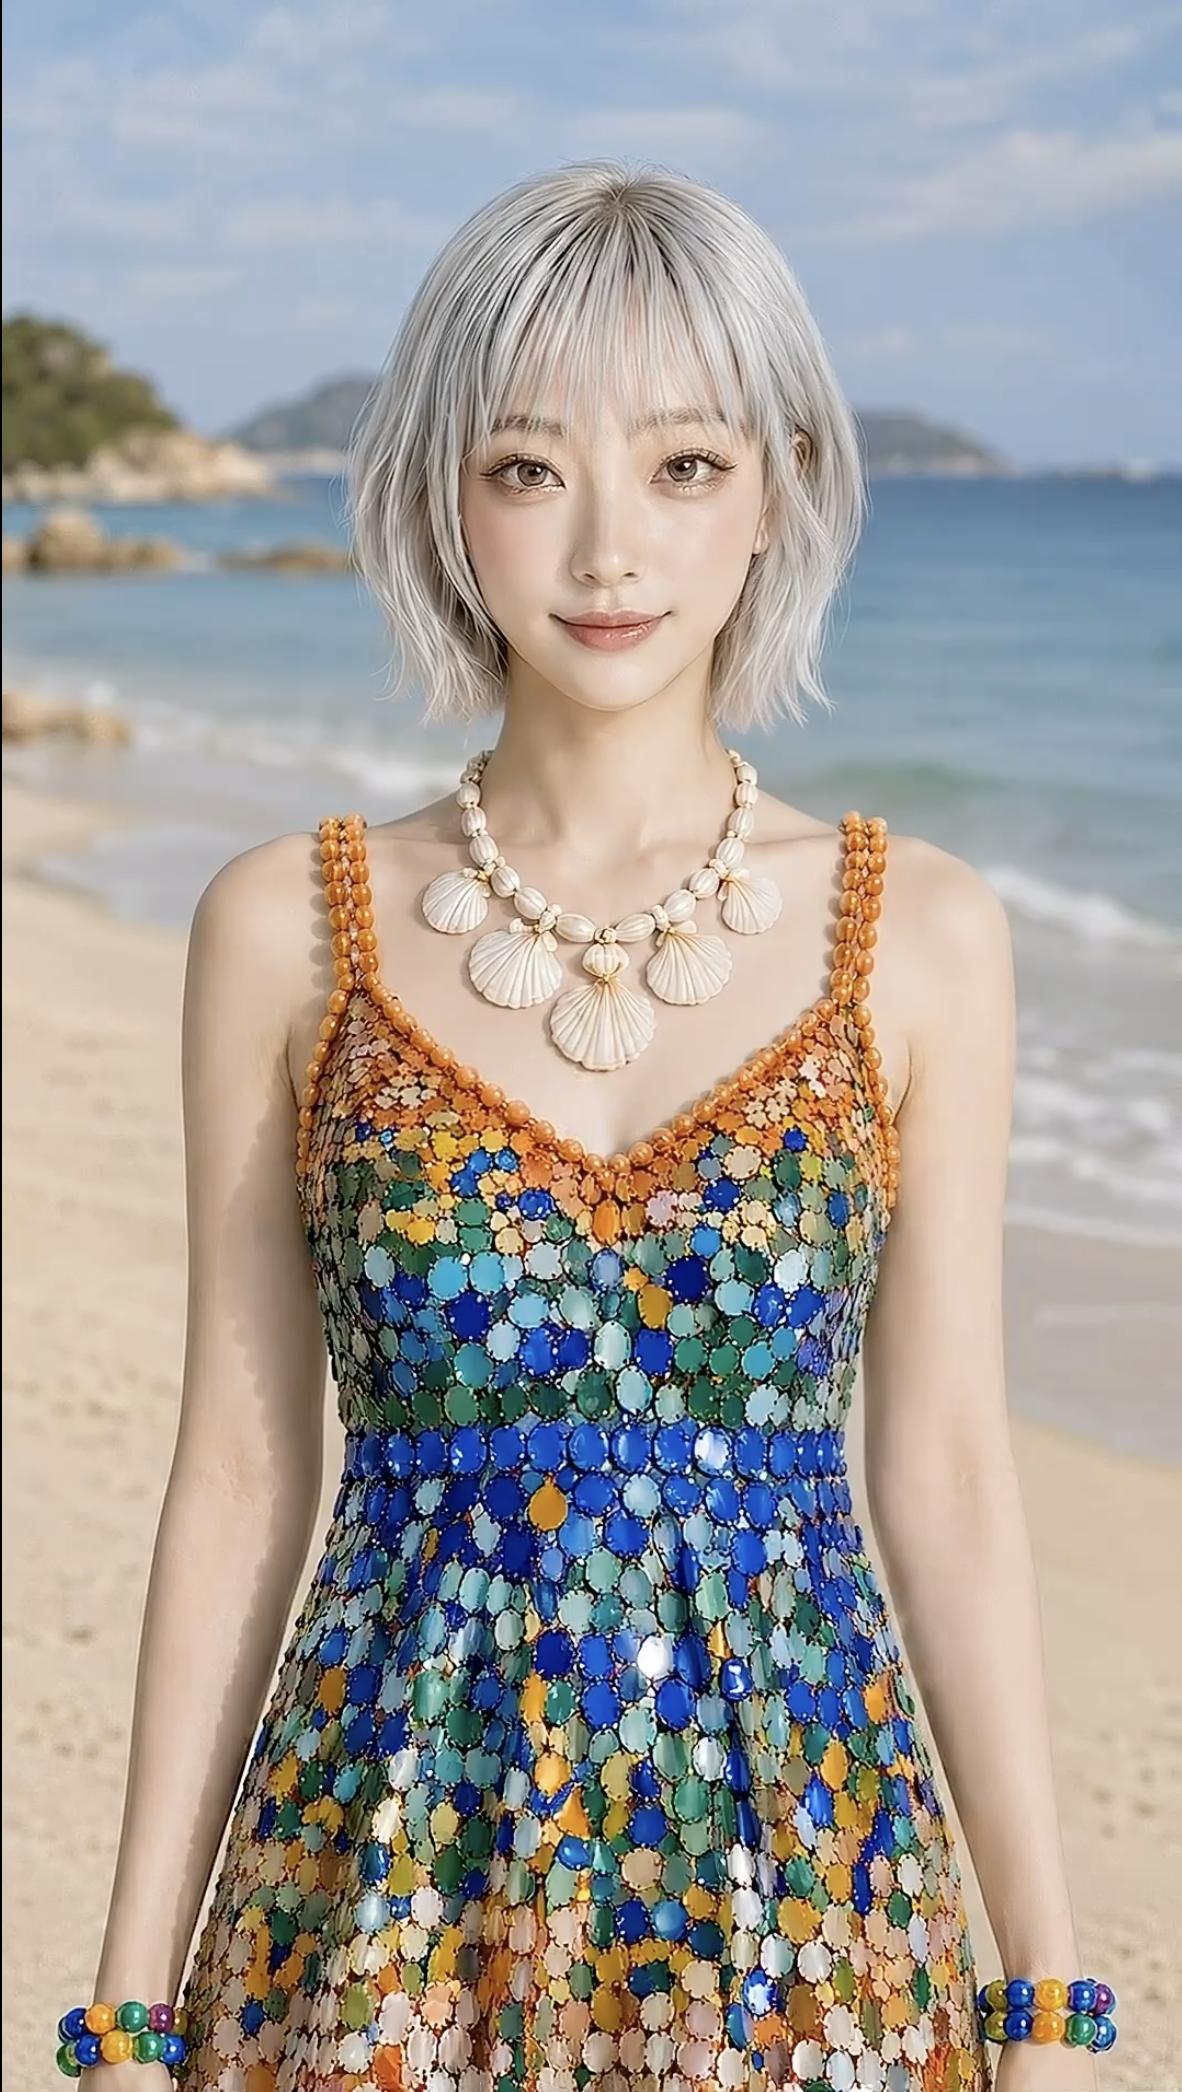
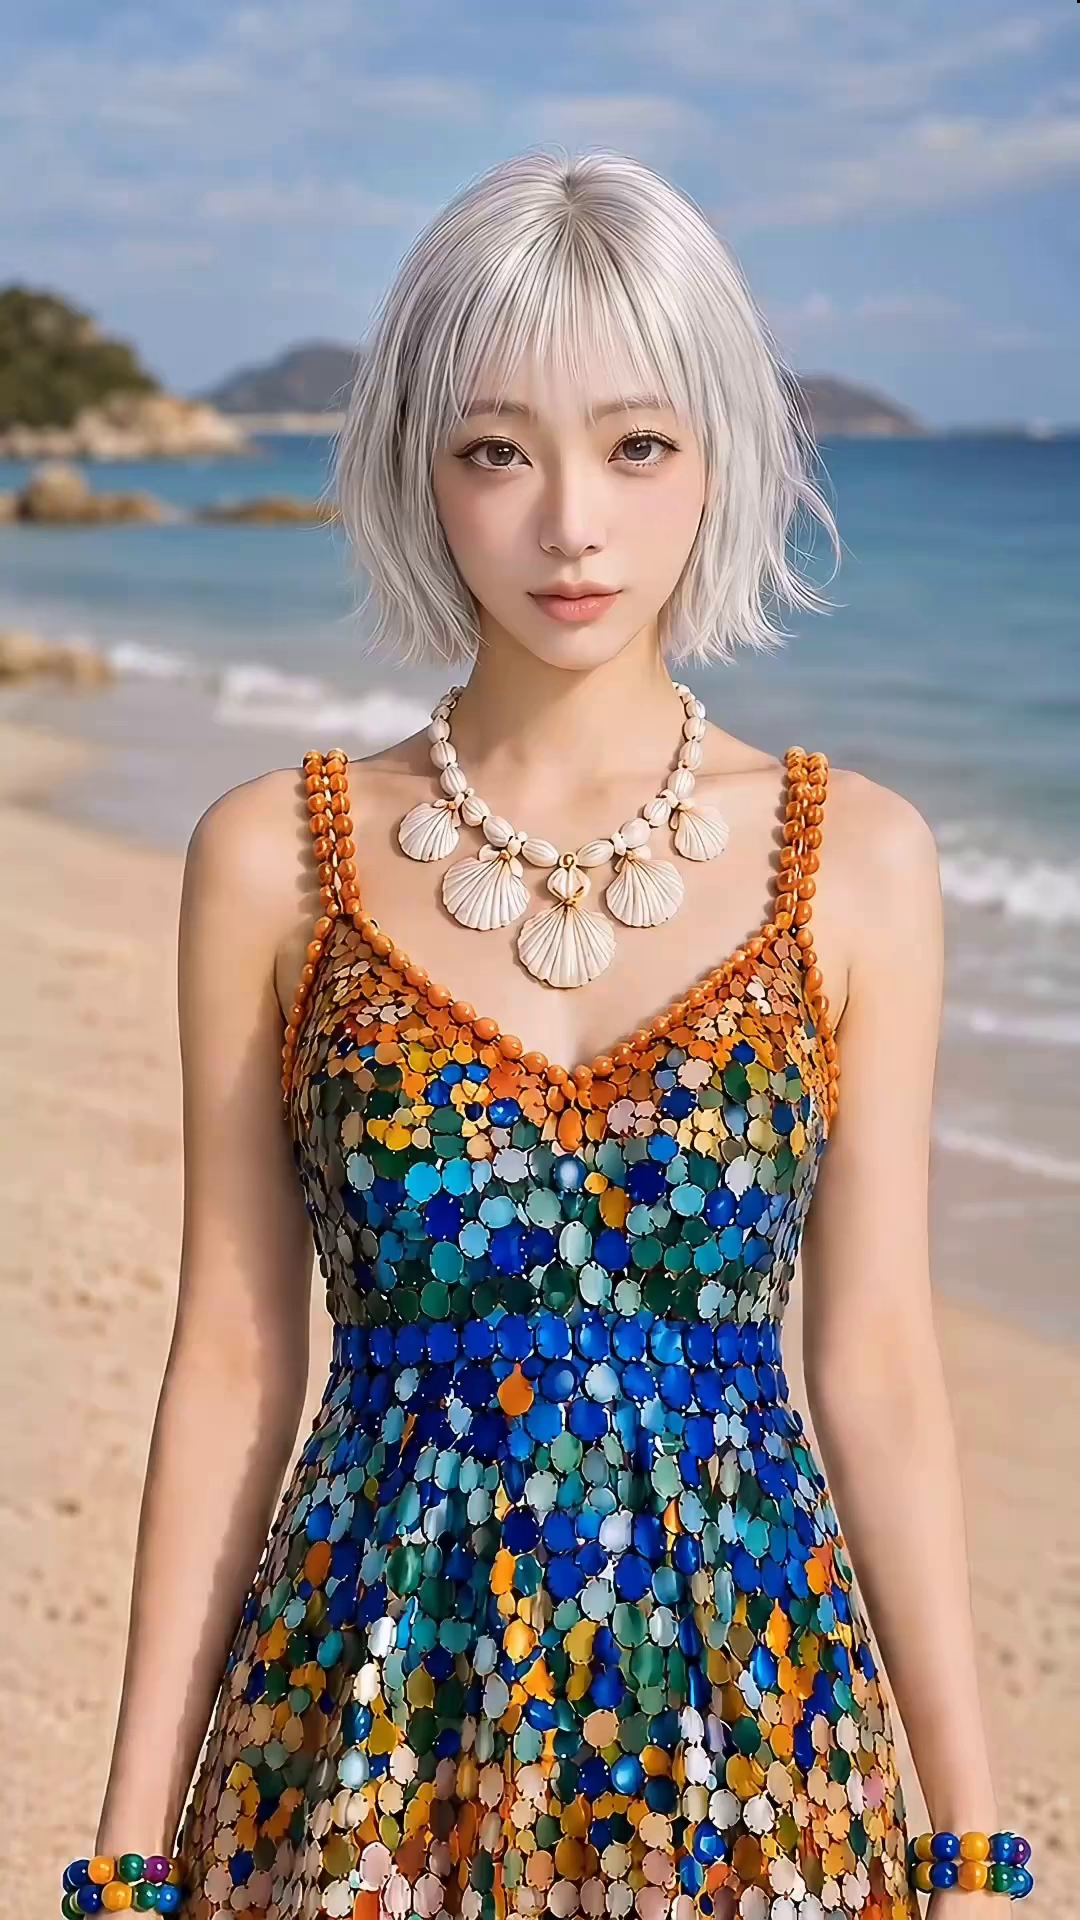
fix: restore ESG loading background

diff --git a/src/views/EsgVirtualHuman.vue b/src/views/EsgVirtualHuman.vue
@@ -501,7 +501,9 @@ onBeforeUnmount(() => {
   width: min(100vw, calc(100svh * 9 / 16));
   aspect-ratio: 9 / 16;
   overflow: hidden;
-  background: transparent;
+  background:
+    linear-gradient(rgb(255 255 255 / 0), rgb(255 255 255 / 0)),
+    url("/images/esg-hero-bg.png") center / cover no-repeat;
   container-type: size;
   color: #1d1d1d;
   user-select: none;